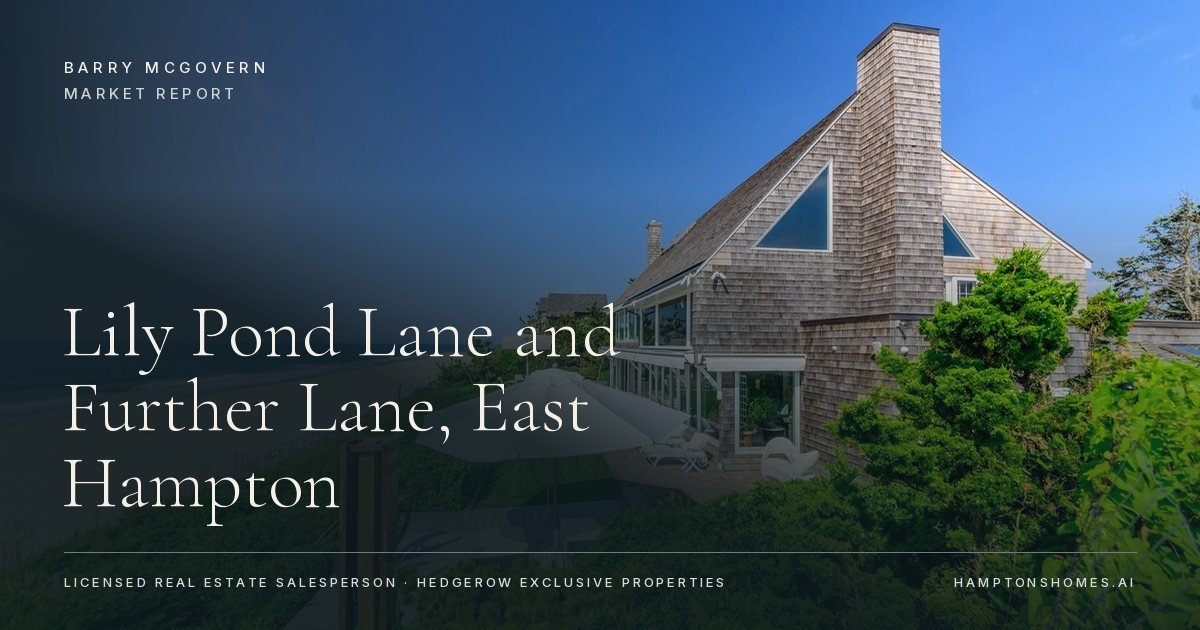
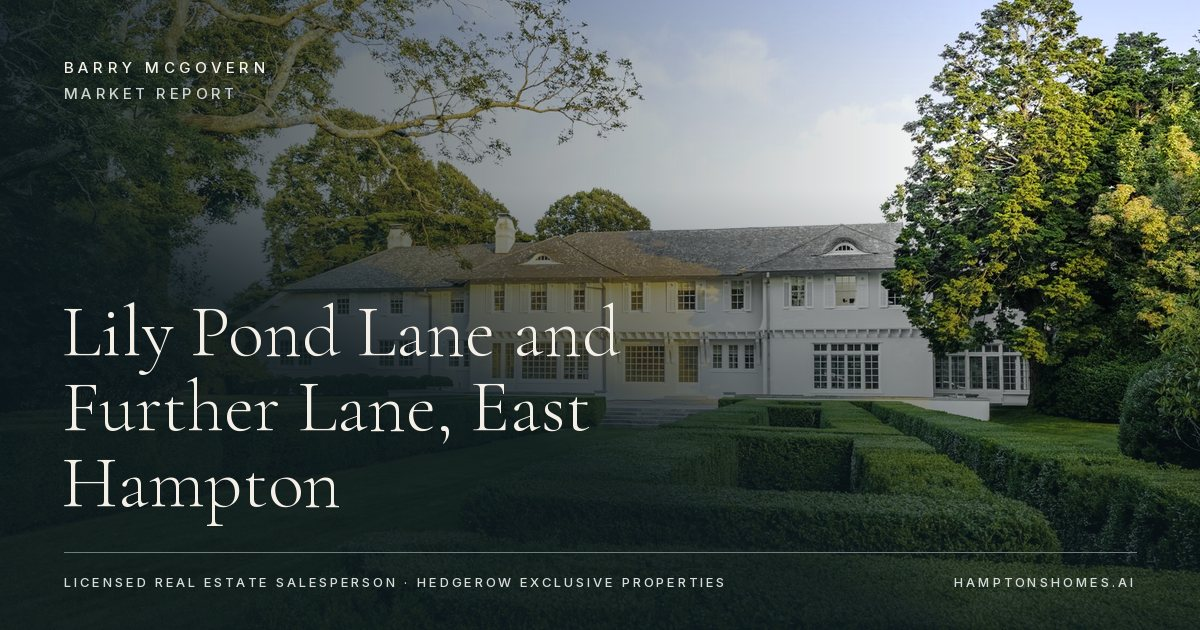
Image variety: new article heroes and OG cards, fewer repeats of the Cobb Lane aerial

diff --git a/hamptonshomes-ai/src/lib/blog.ts b/hamptonshomes-ai/src/lib/blog.ts
@@ -142,7 +142,7 @@ export const blogPosts: BlogPost[] = [
     dateModified: "2026-10-08",
     author: "Barry McGovern",
     category: "Market Research",
-    image: "/images/hero-waterfront.jpg",
+    image: "/images/heroes/104-quimby-lane-bridgehampton.jpg",
     authorBox: true,
     hideCta: true,
     about: ["Southampton", "Water Mill", "Bridgehampton", "Sagaponack", "Wainscott", "East Hampton"],
@@ -538,7 +538,7 @@ Coastal erosion rules, FEMA flood regulation, multi-agency permitting, and thin 
     date: "2026-09-20",
     author: "Barry McGovern",
     category: "Market Report",
-    image: "/images/press/bridgehampton-50m.jpg",
+    image: "/images/heroes/490-hayground-road-bridgehampton.jpg",
     metaDescription:
       "Bridgehampton non-water comps: south of the highway still leads, while north-of-highway new construction prints $10M to $20.5M. By Barry McGovern.",
     content: `
@@ -789,7 +789,7 @@ Barry McGovern, a Licensed Real Estate Salesperson with Hedgerow Exclusive Prope
     date: "2026-09-06",
     author: "Barry McGovern",
     category: "Market Report",
-    image: "/images/hero-waterfront.jpg",
+    image: "/images/heroes/296-311-surfside-drive-bridgehampton.jpg",
     metaDescription:
       "How AI IPO wealth shows up first in San Francisco ultra-luxury pricing, and why Hamptons oceanfront scarcity is next. Analysis by Barry McGovern.",
     content: `
@@ -872,7 +872,7 @@ That is not a tip to panic-buy anything with a shingle. It is a clear-eyed read 
     date: "2026-02-26",
     author: "Barry McGovern",
     category: "Market Report",
-    image: "/images/67-surfside.jpg",
+    image: "/images/heroes/29-spaeth-lane-east-hampton.jpg",
     metaDescription:
       "A 7.3-acre East Hampton Village compound closed at $30 million. What it signals for Hamptons luxury demand in spring 2026, by Barry McGovern.",
     content: `
@@ -1030,7 +1030,7 @@ The $6.2 billion surge wasn't just a number. It was a signal. The Hamptons luxur
     date: "2026-02-19",
     author: "Barry McGovern",
     category: "Market Report",
-    image: "/images/109-duck-pond.jpg",
+    image: "/images/heroes/55-coopers-neck-lane-southampton.jpg",
     metaDescription:
       "How Wall Street's 2025 bonus season is shaping Hamptons real estate in 2026: record prices, early rental bookings, and oceanfront demand.",
     content: `
@@ -1286,7 +1286,7 @@ If you're considering buying or selling in the Hamptons and want access to the f
     date: "2025-06-18",
     author: "Barry McGovern",
     category: "Market Report",
-    image: "/images/67-surfside.jpg",
+    image: "/images/heroes/390-fowler-street-southampton.jpg",
     metaDescription: "Barry McGovern explains how oceanfront scarcity, frontage, access, and micro-location shape Hamptons decisions from Southampton through Montauk.",
     content: `
 ## The coastline is the constraint
@@ -1374,7 +1374,7 @@ Barry McGovern works with buyers and sellers as a Licensed Real Estate Salespers
     date: "2025-11-20",
     author: "Barry McGovern",
     category: "Perspective",
-    image: "/images/press/bridgehampton-50m.jpg",
+    image: "/images/heroes/950-meadow-lane-southampton.jpg",
     metaDescription: "Barry McGovern explains when a Hamptons luxury property may suit a public launch or an off-market strategy, with practical guidance for HNW clients.",
     content: `
 ## Privacy is not the only question
@@ -1423,7 +1423,7 @@ Barry McGovern is a Licensed Real Estate Salesperson at Hedgerow Exclusive Prope
     date: "2026-01-15",
     author: "Barry McGovern",
     category: "Market Report",
-    image: "/images/33-lily-pond.jpg",
+    image: "/images/heroes/121-further-lane-40-middle-lane-east-hampton.jpg",
     metaDescription: "Barry McGovern analyzes East Hampton’s Lily Pond Lane and Further Lane prestige corridor, including privacy, frontage, village access, and buyer strategy.",
     content: `
 ## Prestige is built from several coordinates
